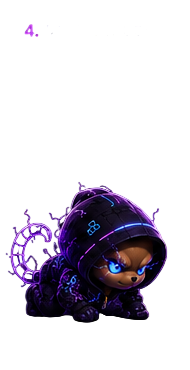
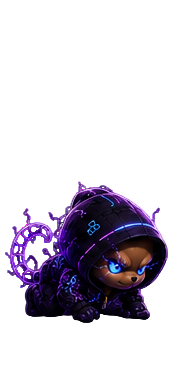
feat(character): adjust ground level and physics for taller character sprite

diff --git a/scripts/character.class.js b/scripts/character.class.js
@@ -1,18 +1,19 @@
 class Character extends MovableObject {
     width = 150;
-    height = 150;
+    height = 200;
 
-    IMAGES_STANDING = ["assets/img/character/Stehen3.png"];
+    IMAGES_STANDING = ["assets/img/character/dodge/stehen.png"];
 
     IMAGES_WALKING = [
-        "assets/img/character/B1.png",
-        "assets/img/character/B2.png",
-        "assets/img/character/B15.png",
-        "assets/img/character/B5.png",
-        "assets/img/character/B1.png",
-        "assets/img/character/B2.png",
-        "assets/img/character/B15.png",
-        "assets/img/character/B5.png",
+        "assets/img/character/walk/walk1.png",
+        "assets/img/character/walk/walk2.png",
+        "assets/img/character/walk/walk3.png",
+        "assets/img/character/walk/walk4.png",
+        "assets/img/character/walk/walk5.png",
+        "assets/img/character/walk/walk6.png",
+        "assets/img/character/walk/walk7.png",
+        "assets/img/character/walk/walk8.png",
+        "assets/img/character/walk/walk9.png",
     ];
 
     IMAGES_JUMPING = [
@@ -28,7 +29,7 @@ class Character extends MovableObject {
 
     IMAGES_DODGING = [
         "assets/img/character/dodge/dodge1.png",
-        "assets/img/character/dodge/dodge2.png",  
+        "assets/img/character/dodge/dodge2.png",
         "assets/img/character/dodge/dodge3.png",
         "assets/img/character/dodge/dodge4.png",
         "assets/img/character/dodge/dodge5.png",
@@ -38,7 +39,7 @@ class Character extends MovableObject {
     currentImage = 0;
     currentJumpImage = 0;
     currentDodgeImage = 0;
-    isDodgeEnding = false;  
+    isDodgeEnding = false;
     world;
 
     constructor() {
@@ -69,7 +70,12 @@ class Character extends MovableObject {
                 this.x += 5;
                 this.otherDirection = false;
             }
-            if (keyboard.LEFT && !keyboard.DOWN && !this.isDodgeEnding && this.x > 0) {
+            if (
+                keyboard.LEFT &&
+                !keyboard.DOWN &&
+                !this.isDodgeEnding &&
+                this.x > 0
+            ) {
                 this.x -= 5;
                 this.otherDirection = true;
             }
@@ -79,7 +85,11 @@ class Character extends MovableObject {
 
             if (keyboard.DOWN && !this.isAboveGround()) {
                 this.ausweichen();
-            } else if (!keyboard.DOWN && this.currentDodgeImage > 0 && !this.isDodgeEnding) {
+            } else if (
+                !keyboard.DOWN &&
+                this.currentDodgeImage > 0 &&
+                !this.isDodgeEnding
+            ) {
                 this.startDodgeEnd();
             }
 
@@ -110,7 +120,7 @@ class Character extends MovableObject {
                 let path = this.IMAGES_DODGING[this.currentDodgeImage];
                 this.loadImage(path);
 
-                if (this.currentDodgeImage < 4) { 
+                if (this.currentDodgeImage < 4) {
                     this.currentDodgeImage++;
                 }
             } else {
@@ -135,8 +145,7 @@ class Character extends MovableObject {
         this.currentJumpImage = 0;
     }
 
-    ausweichen() {
-    }
+    ausweichen() {}
 
     startDodgeEnd() {
         this.isDodgeEnding = true;

diff --git a/scripts/movable-object.class.js b/scripts/movable-object.class.js
@@ -1,6 +1,6 @@
 class MovableObject {
     x = 120;
-    y = 450;
+    y = 420;
     img;
     height = 150;
     width = 150;
@@ -16,7 +16,7 @@ class MovableObject {
                 this.y -= this.speedY;
                 this.speedY -= this.acceleration;
             } else {
-                this.y = 450;
+                this.y = 420;
                 this.speedY = 0;
             }
         }, 1000 / 25);
@@ -24,7 +24,7 @@ class MovableObject {
 
     isAboveGround() {
         if (this instanceof Character) {
-            return this.y < 450;
+            return this.y < 420;
         }
         return true;
     }
@@ -60,19 +60,19 @@ class MovableObject {
     }
 
     isColliding(mo) {
-    return (
-        this.x + this.width > mo.x &&
-        this.y + this.height > mo.y &&
-        this.x < mo.x + mo.width &&
-        this.y < mo.y + mo.height
-    );
-}
+        return (
+            this.x + this.width > mo.x &&
+            this.y + this.height > mo.y &&
+            this.x < mo.x + mo.width &&
+            this.y < mo.y + mo.height
+        );
+    }
 
-isCollidingTop(mo) {
-    return (
-        this.isColliding(mo) &&
-        this.speedY < 0 &&
-        this.y + this.height - 20 <= mo.y + 30
-    );
-}
+    isCollidingTop(mo) {
+        return (
+            this.isColliding(mo) &&
+            this.speedY < 0 &&
+            this.y + this.height - 20 <= mo.y + 30
+        );
+    }
 }

diff --git a/scripts/Ghost.class.js b/scripts/Ghost.class.js
@@ -45,7 +45,7 @@ class Ghost extends MovableObject {
 
         this.attackToggle = !this.attackToggle;
 
-        let crystalY = this.attackToggle ? this.y + 280 : this.y + 340;
+        let crystalY = this.attackToggle ? this.y + 250 : this.y + 340;
         let crystalX = this.x - 40;
 
         let crystal = new CrystalProjectile(crystalX, crystalY, this.world);
